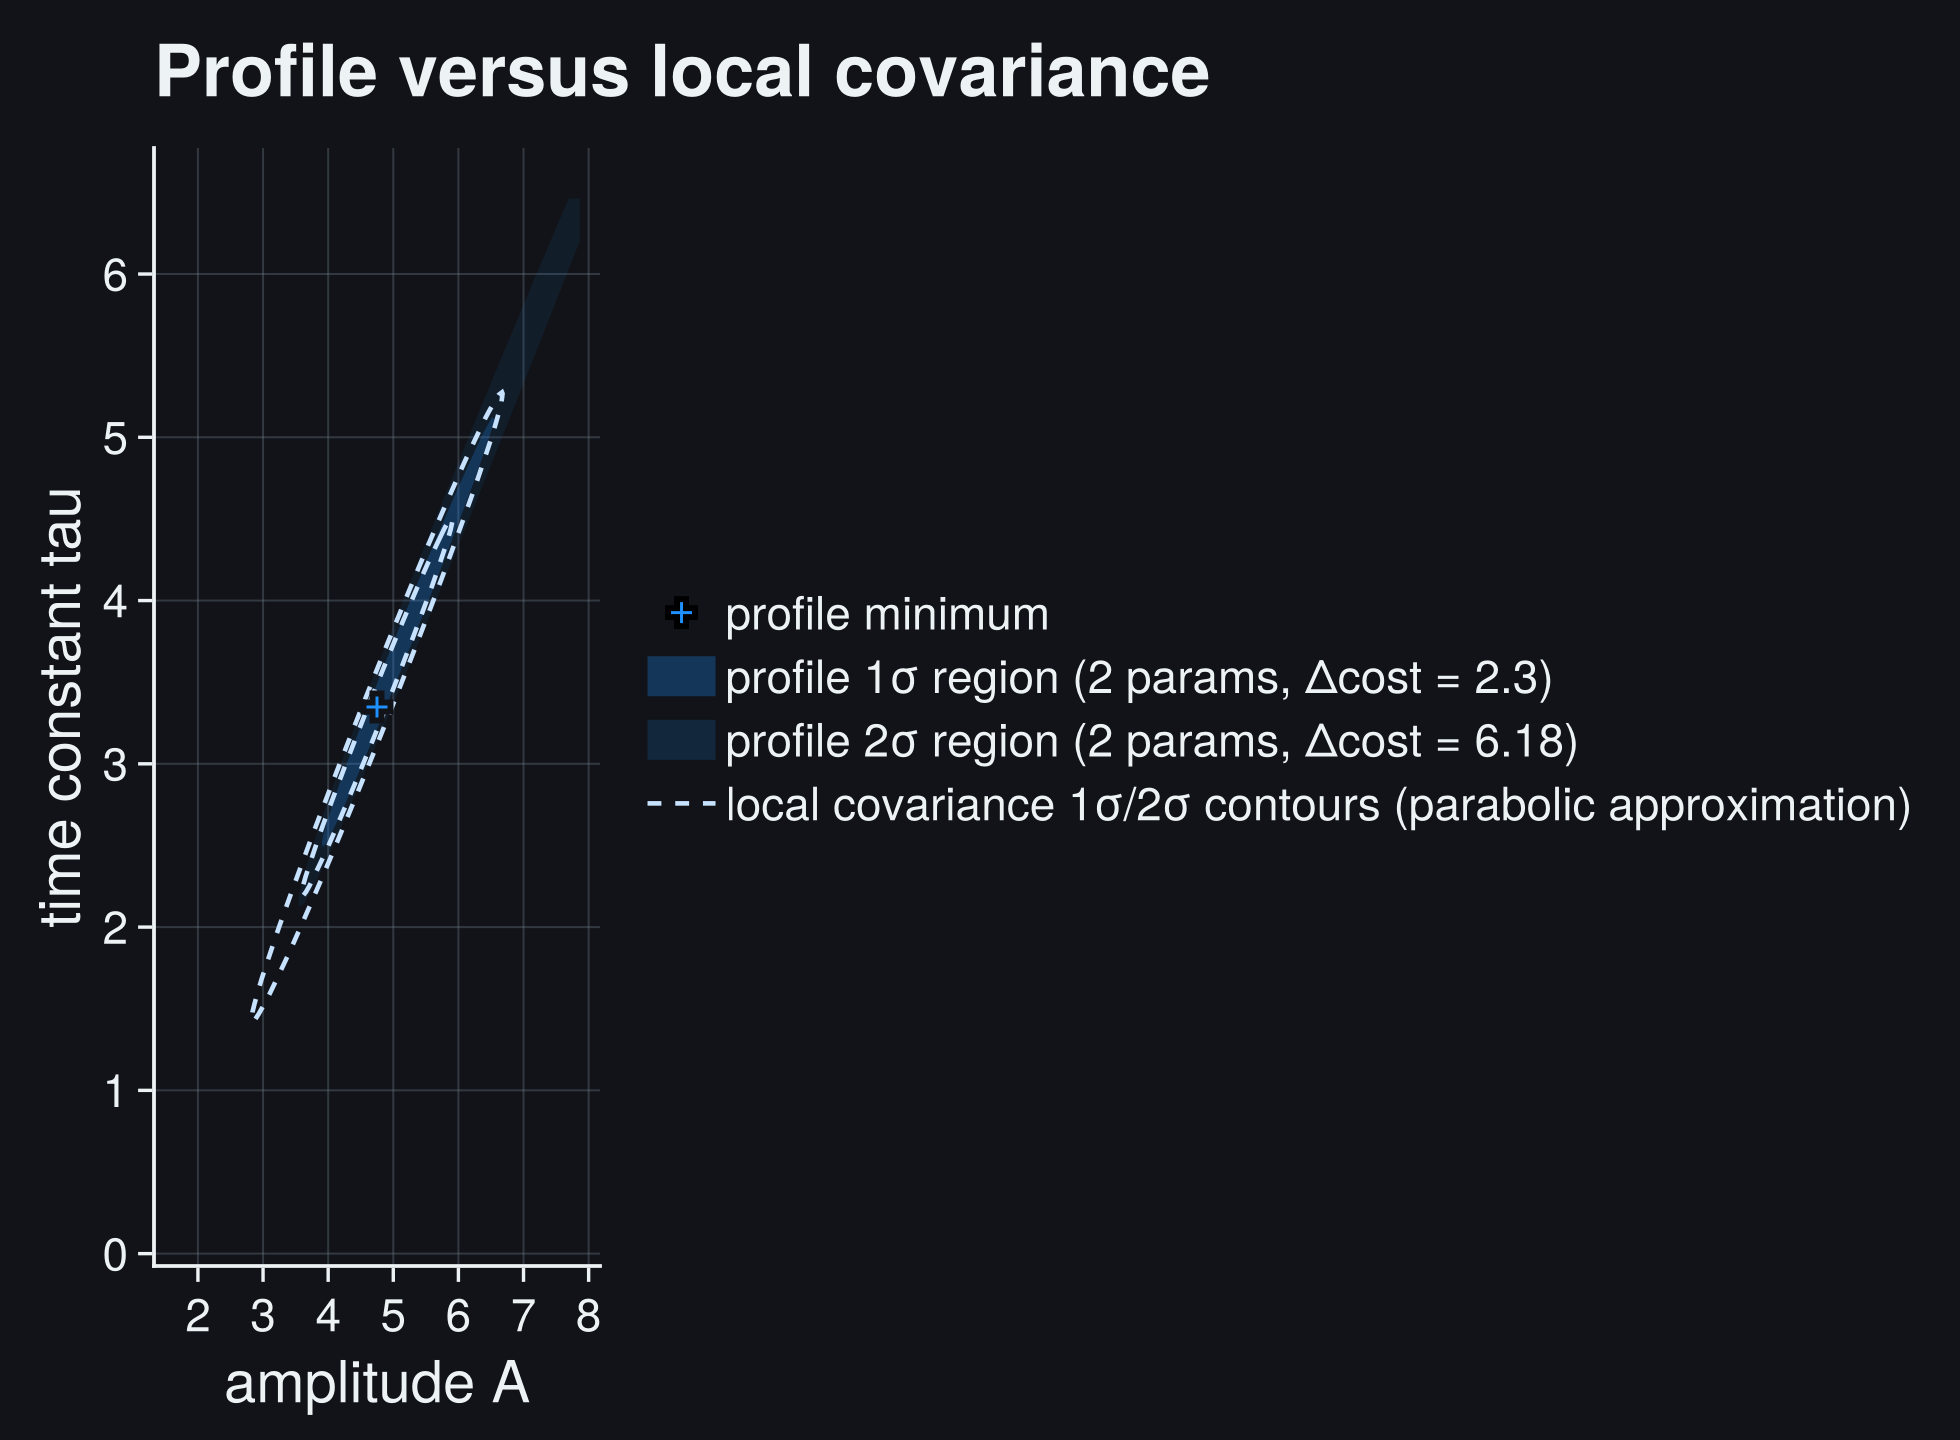
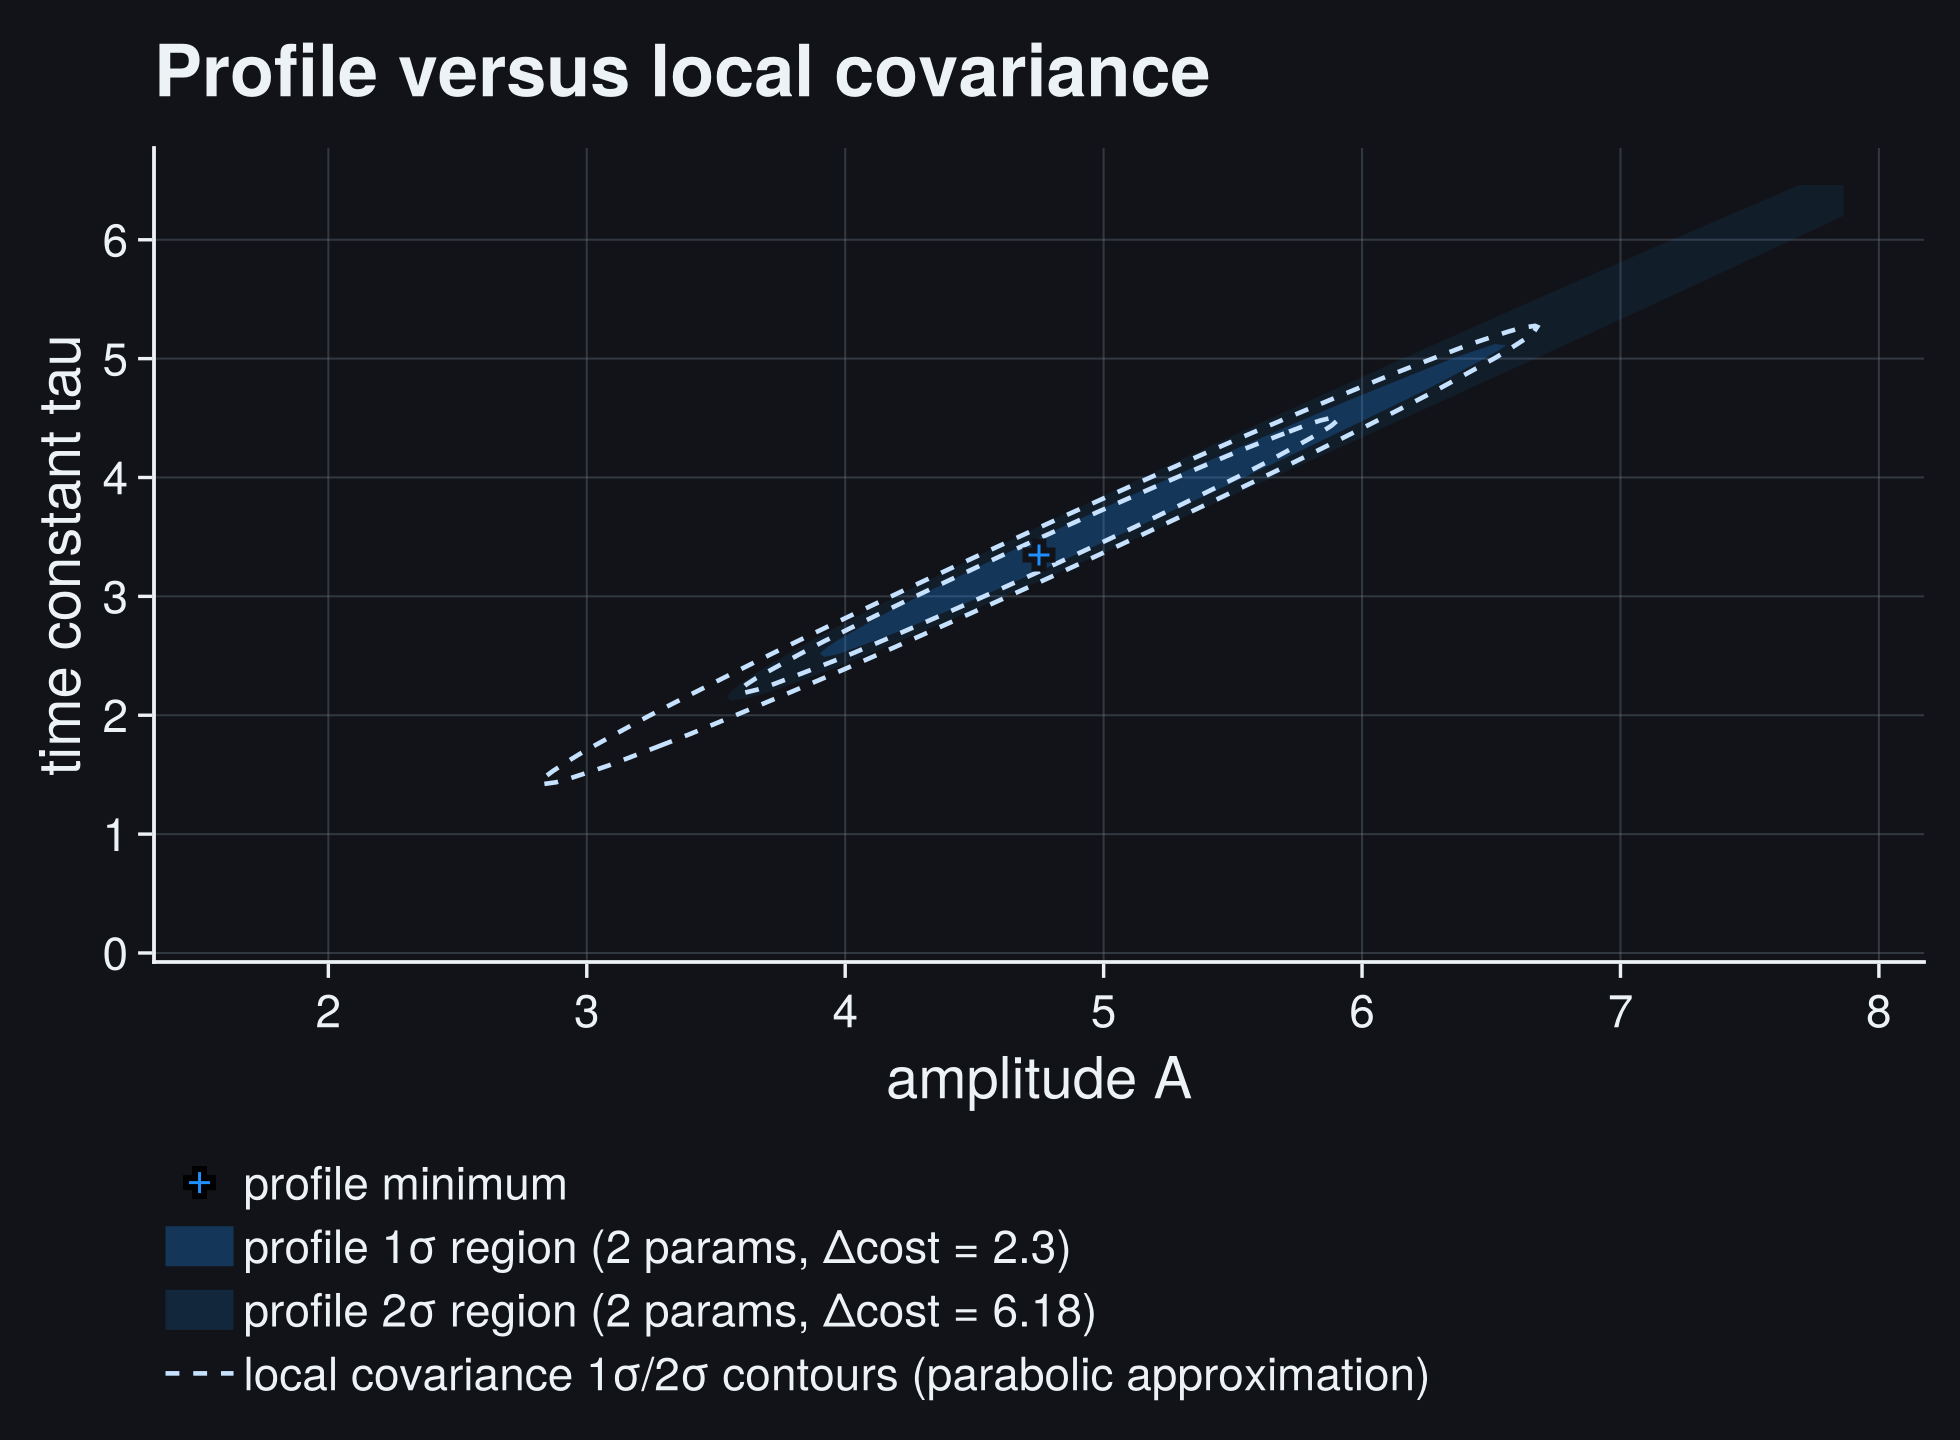
Prevent diagnostic legends from collapsing plots

diff --git a/docs/src/api_plotting.md b/docs/src/api_plotting.md
@@ -311,10 +311,14 @@ plot_profile(profile_result; local_sigma=result.param_stderr[i])
 | Profile | `line_color=nothing`, `line_width=nothing`, `profile_label="profile cost"`, `line_kwargs` |
 | Local approximation | `local_sigma=nothing`, `local_color=nothing`, `local_linewidth=nothing`, `local_linestyle=:dash`, `local_label="local covariance parabola"`, `local_line_kwargs` |
 | Threshold | `threshold_color=nothing`, `threshold_label=nothing`, `threshold_kwargs` |
-| Layout | `show_legend=true`, `delta_max=nothing`, `axis_kwargs` |
+| Layout | `show_legend=true`, `legend_position=:below`, `delta_max=nothing`, `axis_kwargs`, `legend_kwargs` |
 
 `local_sigma` must be positive. `delta_max` must be positive when supplied; it
 changes only the displayed y range, not the profile scan or interval.
+The default vertical legend occupies its own row below the data axis, so a long
+threshold description cannot reduce the scientific plotting width.
+`legend_position=:right` requests a bounded side column instead. Explicit Makie
+legend attributes in `legend_kwargs` take precedence.
 
 ### Two-parameter contour
 
@@ -333,7 +337,7 @@ plot_contour(
 | Profile surface | `show_regions=true`, `show_profile_lines=false`, `level_colors=nothing`, `region_colors=nothing`, `line_color=nothing`, `contour_kwargs` |
 | Optional heatmap | `show_heatmap=false`, `colormap=:viridis`, `heatmap_kwargs` |
 | Local approximation | `local_covariance=nothing`, `local_center=nothing`, `local_line_color=nothing`, `local_linewidth=nothing`, `local_linestyle=:dash`, `local_contour_kwargs` |
-| Legend | `show_legend=true` |
+| Legend | `show_legend=true`, `legend_position=:below`, `legend_kwargs` |
 
 The default uses filled profile regions and labels the common two-parameter
 thresholds 2.30 and 6.18 as one- and two-sigma regions. A heatmap is opt-in.
@@ -341,6 +345,9 @@ thresholds 2.30 and 6.18 as one- and two-sigma regions. A heatmap is opt-in.
 `local_center` must contain exactly two values. Empty/non-positive contour
 levels, an empty color collection, incompatible covariance dimensions, or a
 surface with no finite cost value raise `ArgumentError`.
+The default vertical legend occupies its own row below the contour. This keeps
+the contour width independent of descriptive confidence-region labels.
+`legend_position=:right` requests a bounded side column instead.
 
 ### Profile/contour matrix
 

diff --git a/RELEASE_AUDIT.md b/RELEASE_AUDIT.md
@@ -10,6 +10,17 @@ Publication policy: do not push, publish, register, deploy documentation, or
 make the repository public without explicit manual approval from Amin_El_Sayed.
 Local commits on `codex/*` branches are allowed only as reviewable checkpoints.
 
+- Standalone profile and contour figures now share one diagnostic-legend
+  layout policy. Their descriptive legends default below the full-width data
+  axis instead of allowing the longest confidence-region label to size a right
+  column and collapse the plot. A right-side legend remains an explicit,
+  bounded option through `legend_position=:right`; `legend_kwargs` remains the
+  direct Makie override surface. The focused plotting gate passes 164 checks,
+  the visual snapshot gate 96, the plotting API gate 89, and the public-docs
+  hygiene gate 776. Documenter builds without warnings. Browser review at
+  1280 px confirms a 928 px contour image, one active style asset, working
+  light/dark and sans/TeX switching, and no horizontal overflow.
+
 - The final v0 plotting contract now separates visual style from output
   composition. The maintained styles are `:sans` and `:tex`; `show_panel`,
   `print_report`, legend visibility, and light/dark appearance are orthogonal.

diff --git a/MAINTAINERS.md b/MAINTAINERS.md
@@ -75,7 +75,10 @@ list as an ownership map, not a second architecture chapter.
    are reserved for a declared export constraint.
 4. A standard right panel has one hierarchy: legend, model, parameters, then
    statistics. `plot_info_panel!`, `plot_theme`, and `plot_palette` are the
-   shared composition hooks for compound figures.
+   shared composition hooks for compound figures. Standalone profile and
+   contour legends default to a separate row below the data axis; descriptive
+   label length must never determine the width of the scientific column. An
+   explicitly requested right legend uses bounded layout weights.
 5. Plot styles are `:sans` and `:tex`; light/dark appearance, result-panel
    visibility, terminal output, legend visibility, and explicit element
    overrides are independent. `:sans` is the open-axis/grid contract and `:tex`

diff --git a/docs/src/plotting_design.md b/docs/src/plotting_design.md
@@ -332,6 +332,11 @@ Diagnostic plots use the same `theme` and `appearance` contract:
   filled profile regions with the local covariance approximation as a line;
 - `plot_profile_matrix(...)` gives the multi-parameter overview.
 
+Single-profile and contour legends default to `legend_position=:below`. The
+axis therefore keeps the full scientific content width even when confidence
+labels are descriptive. Set `legend_position=:right` for a bounded side column,
+or pass `legend_kwargs` for direct Makie-level legend customization.
+
 Expensive profile matrices can be computed without Makie, inspected in a
 headless job, and rendered later without repeating any refits:
 
